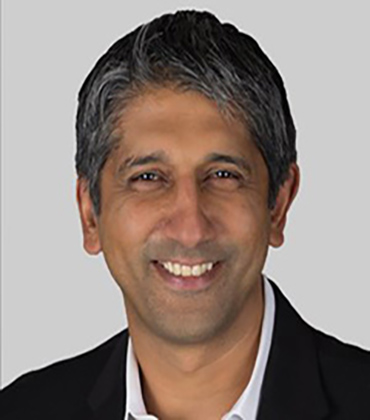
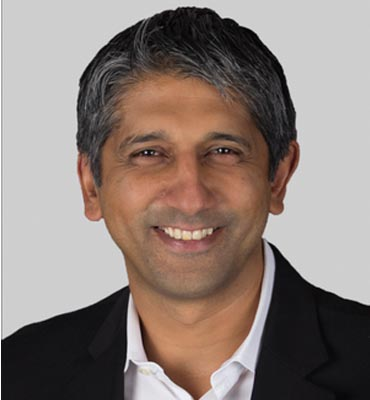
Speaker modified

Changed region(s): [[0.0, 0.0, 1.0, 1.0]]

diff --git a/frontEnd/app/styles/speakers.scss b/frontEnd/app/styles/speakers.scss
@@ -39,7 +39,8 @@
     position:relative;
     margin-bottom:4vh;
     height:50vh;
-    background-size:100% 100%;
+    background-size:cover;
+    background-position:center;
   }
   &-image:hover .caption-1 {
     visibility: visible;
@@ -48,13 +49,16 @@
     font-size:50pt;
   }
   &-image1{
-    background-image: url(../images/speaker-1.jpeg);
+    background-image: url(../images/speaker-1.jpg);
   }
   &-image2{
-    background-image: url(../images/speaker-2.jpeg);
+    background-image: url(../images/speaker-2.jpg);
   }
   &-image3{
     background-image: url(../images/speaker-3.jpg);
+  }
+  &-image4{
+    background-image: url(../images/speaker-4.jpg);
   }
 }
 
